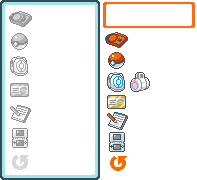
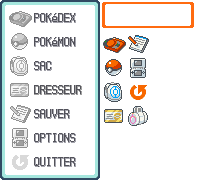
Menu done

diff --git a/Pokémon Crimson/src/View/MapView.cpp b/Pokémon Crimson/src/View/MapView.cpp
@@ -9,16 +9,27 @@ void MapView::init(sf::RenderWindow& target, MainModel& m) {
 void MapView::renderMenu() {
 	render();
 
-	//window->clear();
-	
 	// Reset de la view
 	window->setView(window->getDefaultView());
 
 	sf::Sprite sp;
 	sp.setTexture(menu);
-	sp.setTextureRect(sf::IntRect(0, 0, 100, 180));
-	sp.setPosition(0, 0);
 	sp.setScale(5.0, 5.0);
+	int id = model->getGameState().menuId;
+	
+	// Menu texture 
+	sp.setTextureRect(sf::IntRect(0, 0, 100, 180));
+	sp.setPosition(760.f, 20.f);
+	window->draw(sp);
+
+	// Selector texture
+	sp.setTextureRect(sf::IntRect(102, 2, 92, 26));
+	sp.setPosition(780.f, 45 + id * 120.f);
+	window->draw(sp);
+
+	// Icons texture
+	sp.setTextureRect(sf::IntRect( 102 + (id >= 4) * 24, 32 + (id % 4) * 24 , 24, 24));
+	sp.setPosition(800, 50 + id * 120);
 	window->draw(sp);
 
 	window->display();
@@ -27,8 +38,8 @@ void MapView::renderMenu() {
 void MapView::render(float x, float y) {
 	// Camera coord selection
 	float camPosX, camPosY;
-	x == -1 ? camPosX = model->getCharacter().posX * 16 + 16 : camPosX = x;
-	y == -1 ? camPosY = model->getCharacter().posY * 16 + 16 : camPosY = y;
+	x == -1 ? camPosX = model->getCharacter().posX * 16.f + 16 : camPosX = x;
+	y == -1 ? camPosY = model->getCharacter().posY * 16.f + 16 : camPosY = y;
 
 	// Camera
 	view.setCenter(camPosX+16, camPosY+16);

diff --git a/Pokémon Crimson/src/Model/MainModel.h b/Pokémon Crimson/src/Model/MainModel.h
@@ -13,6 +13,7 @@ struct GameState {
 
 	// Map gameStates
 	bool menuMode;
+	int menuId;
 };
 
 class MainModel
